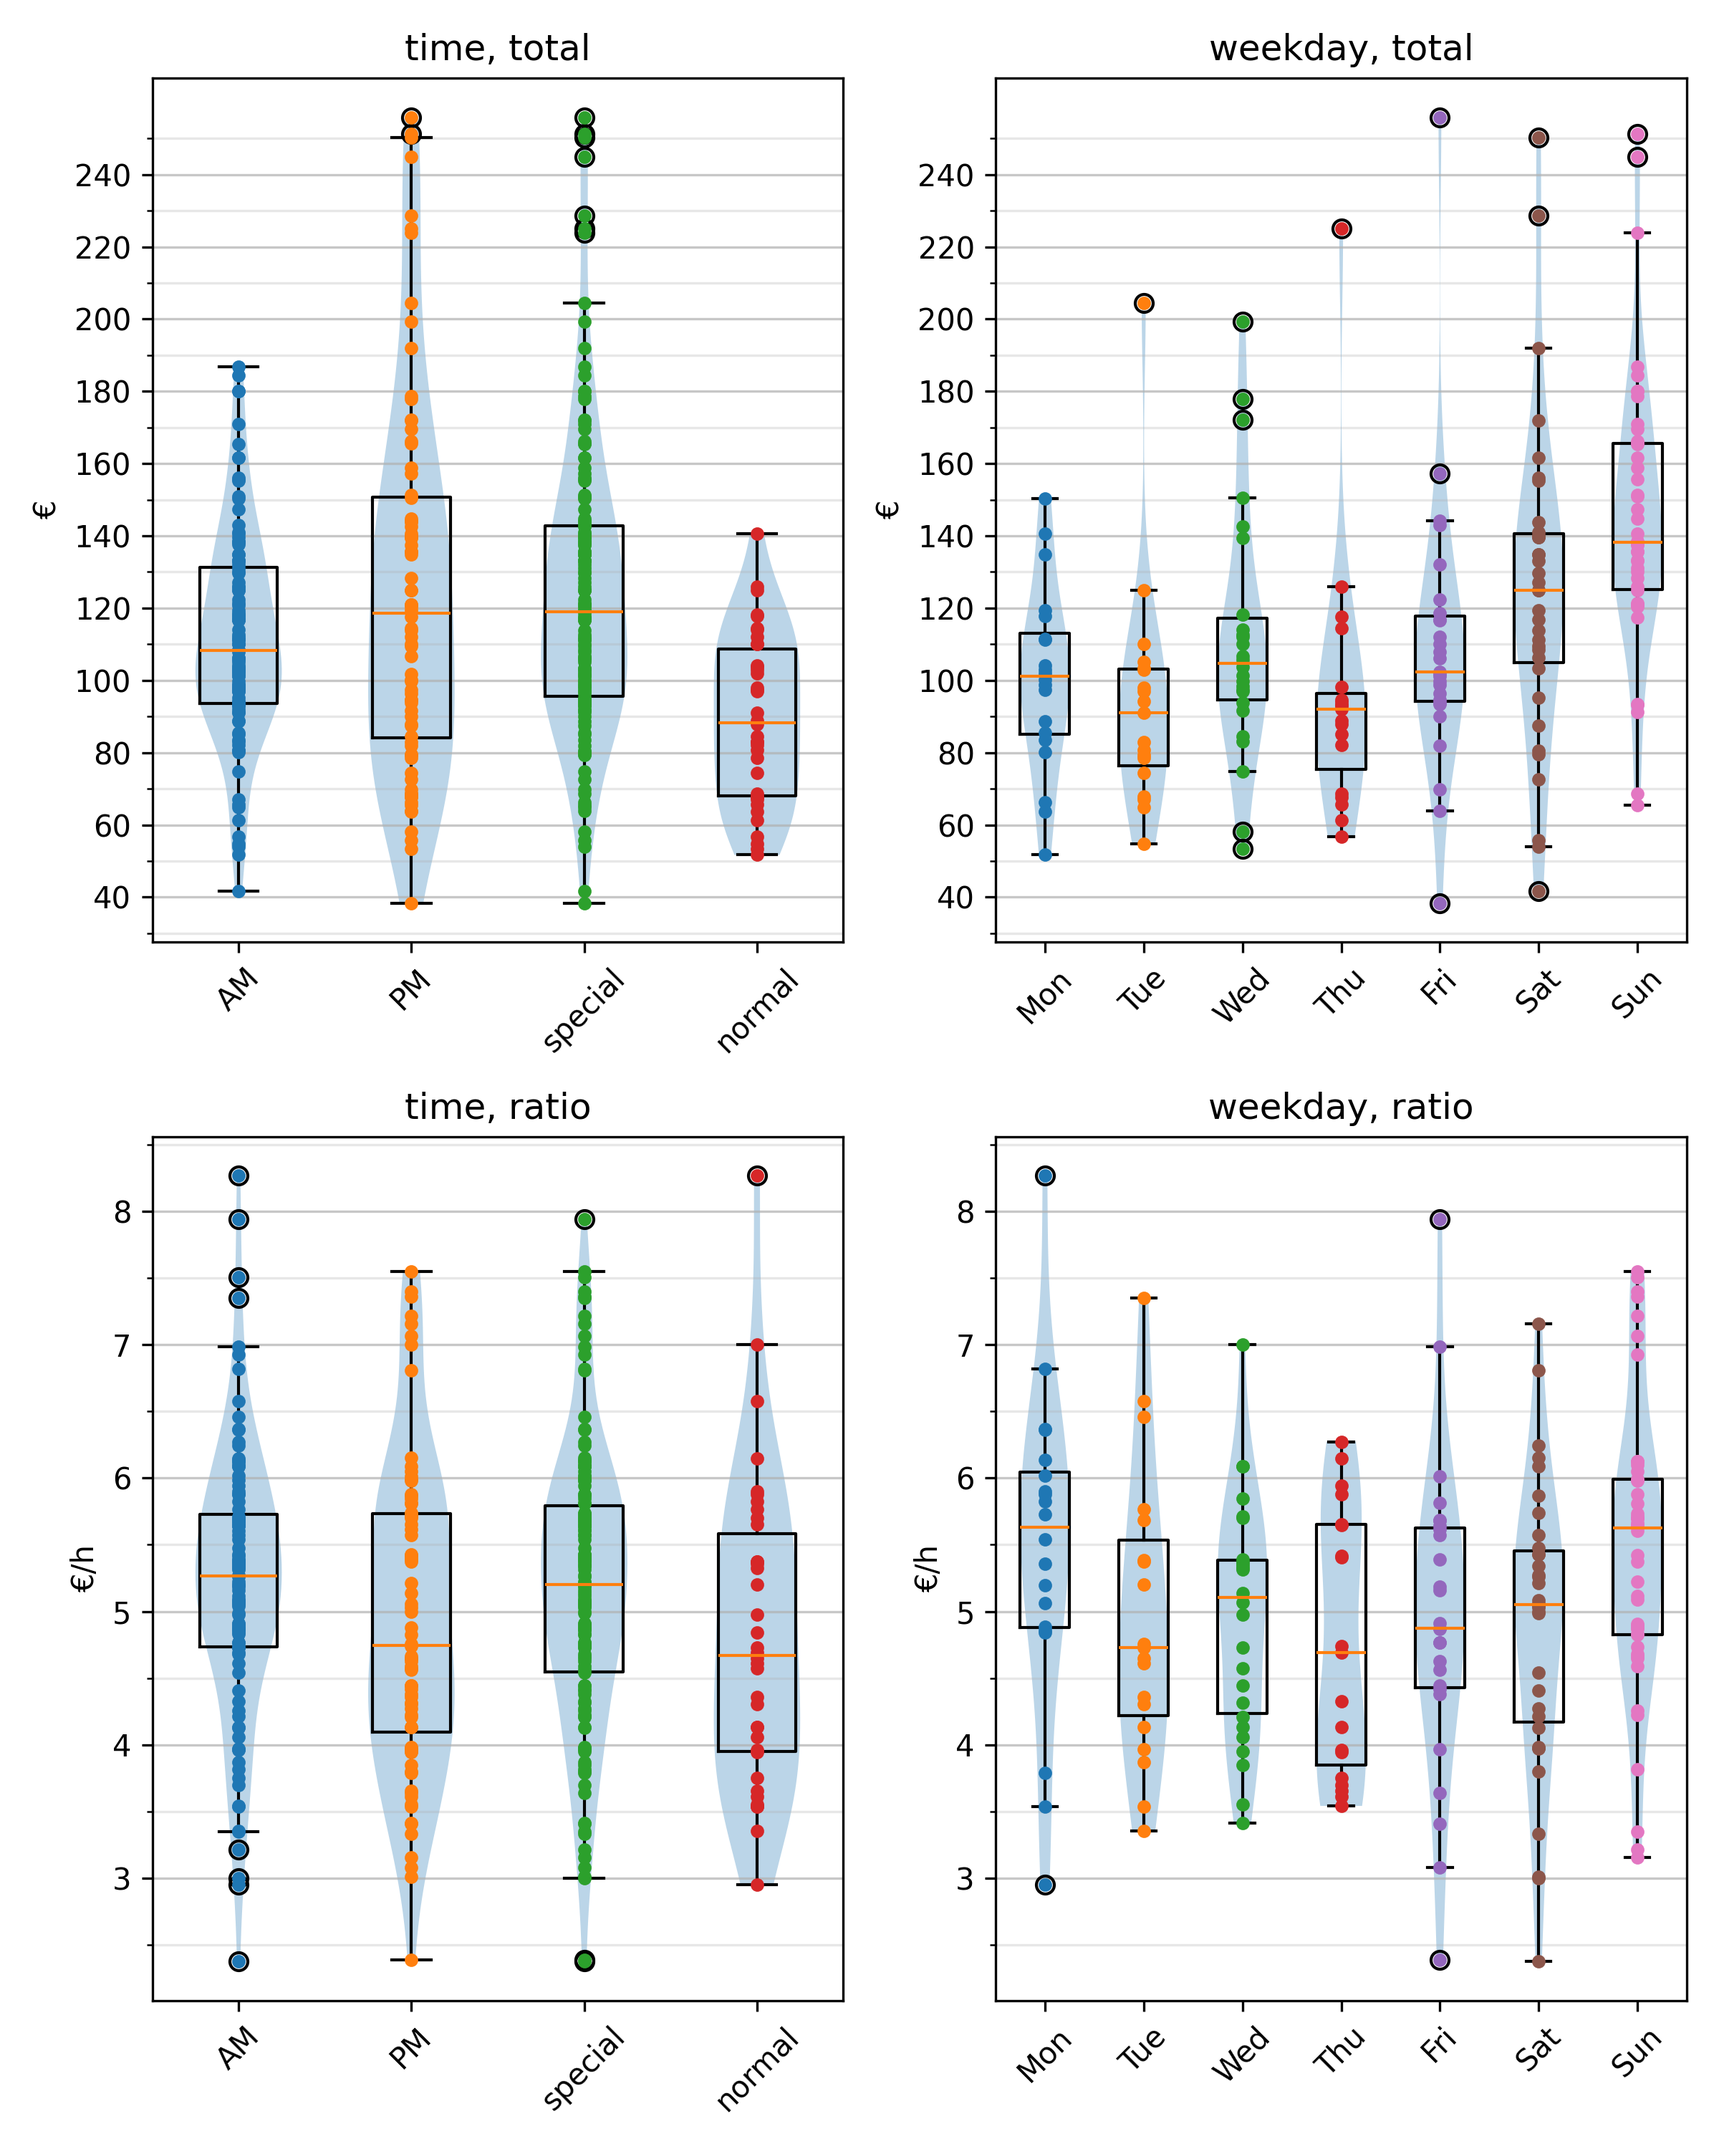
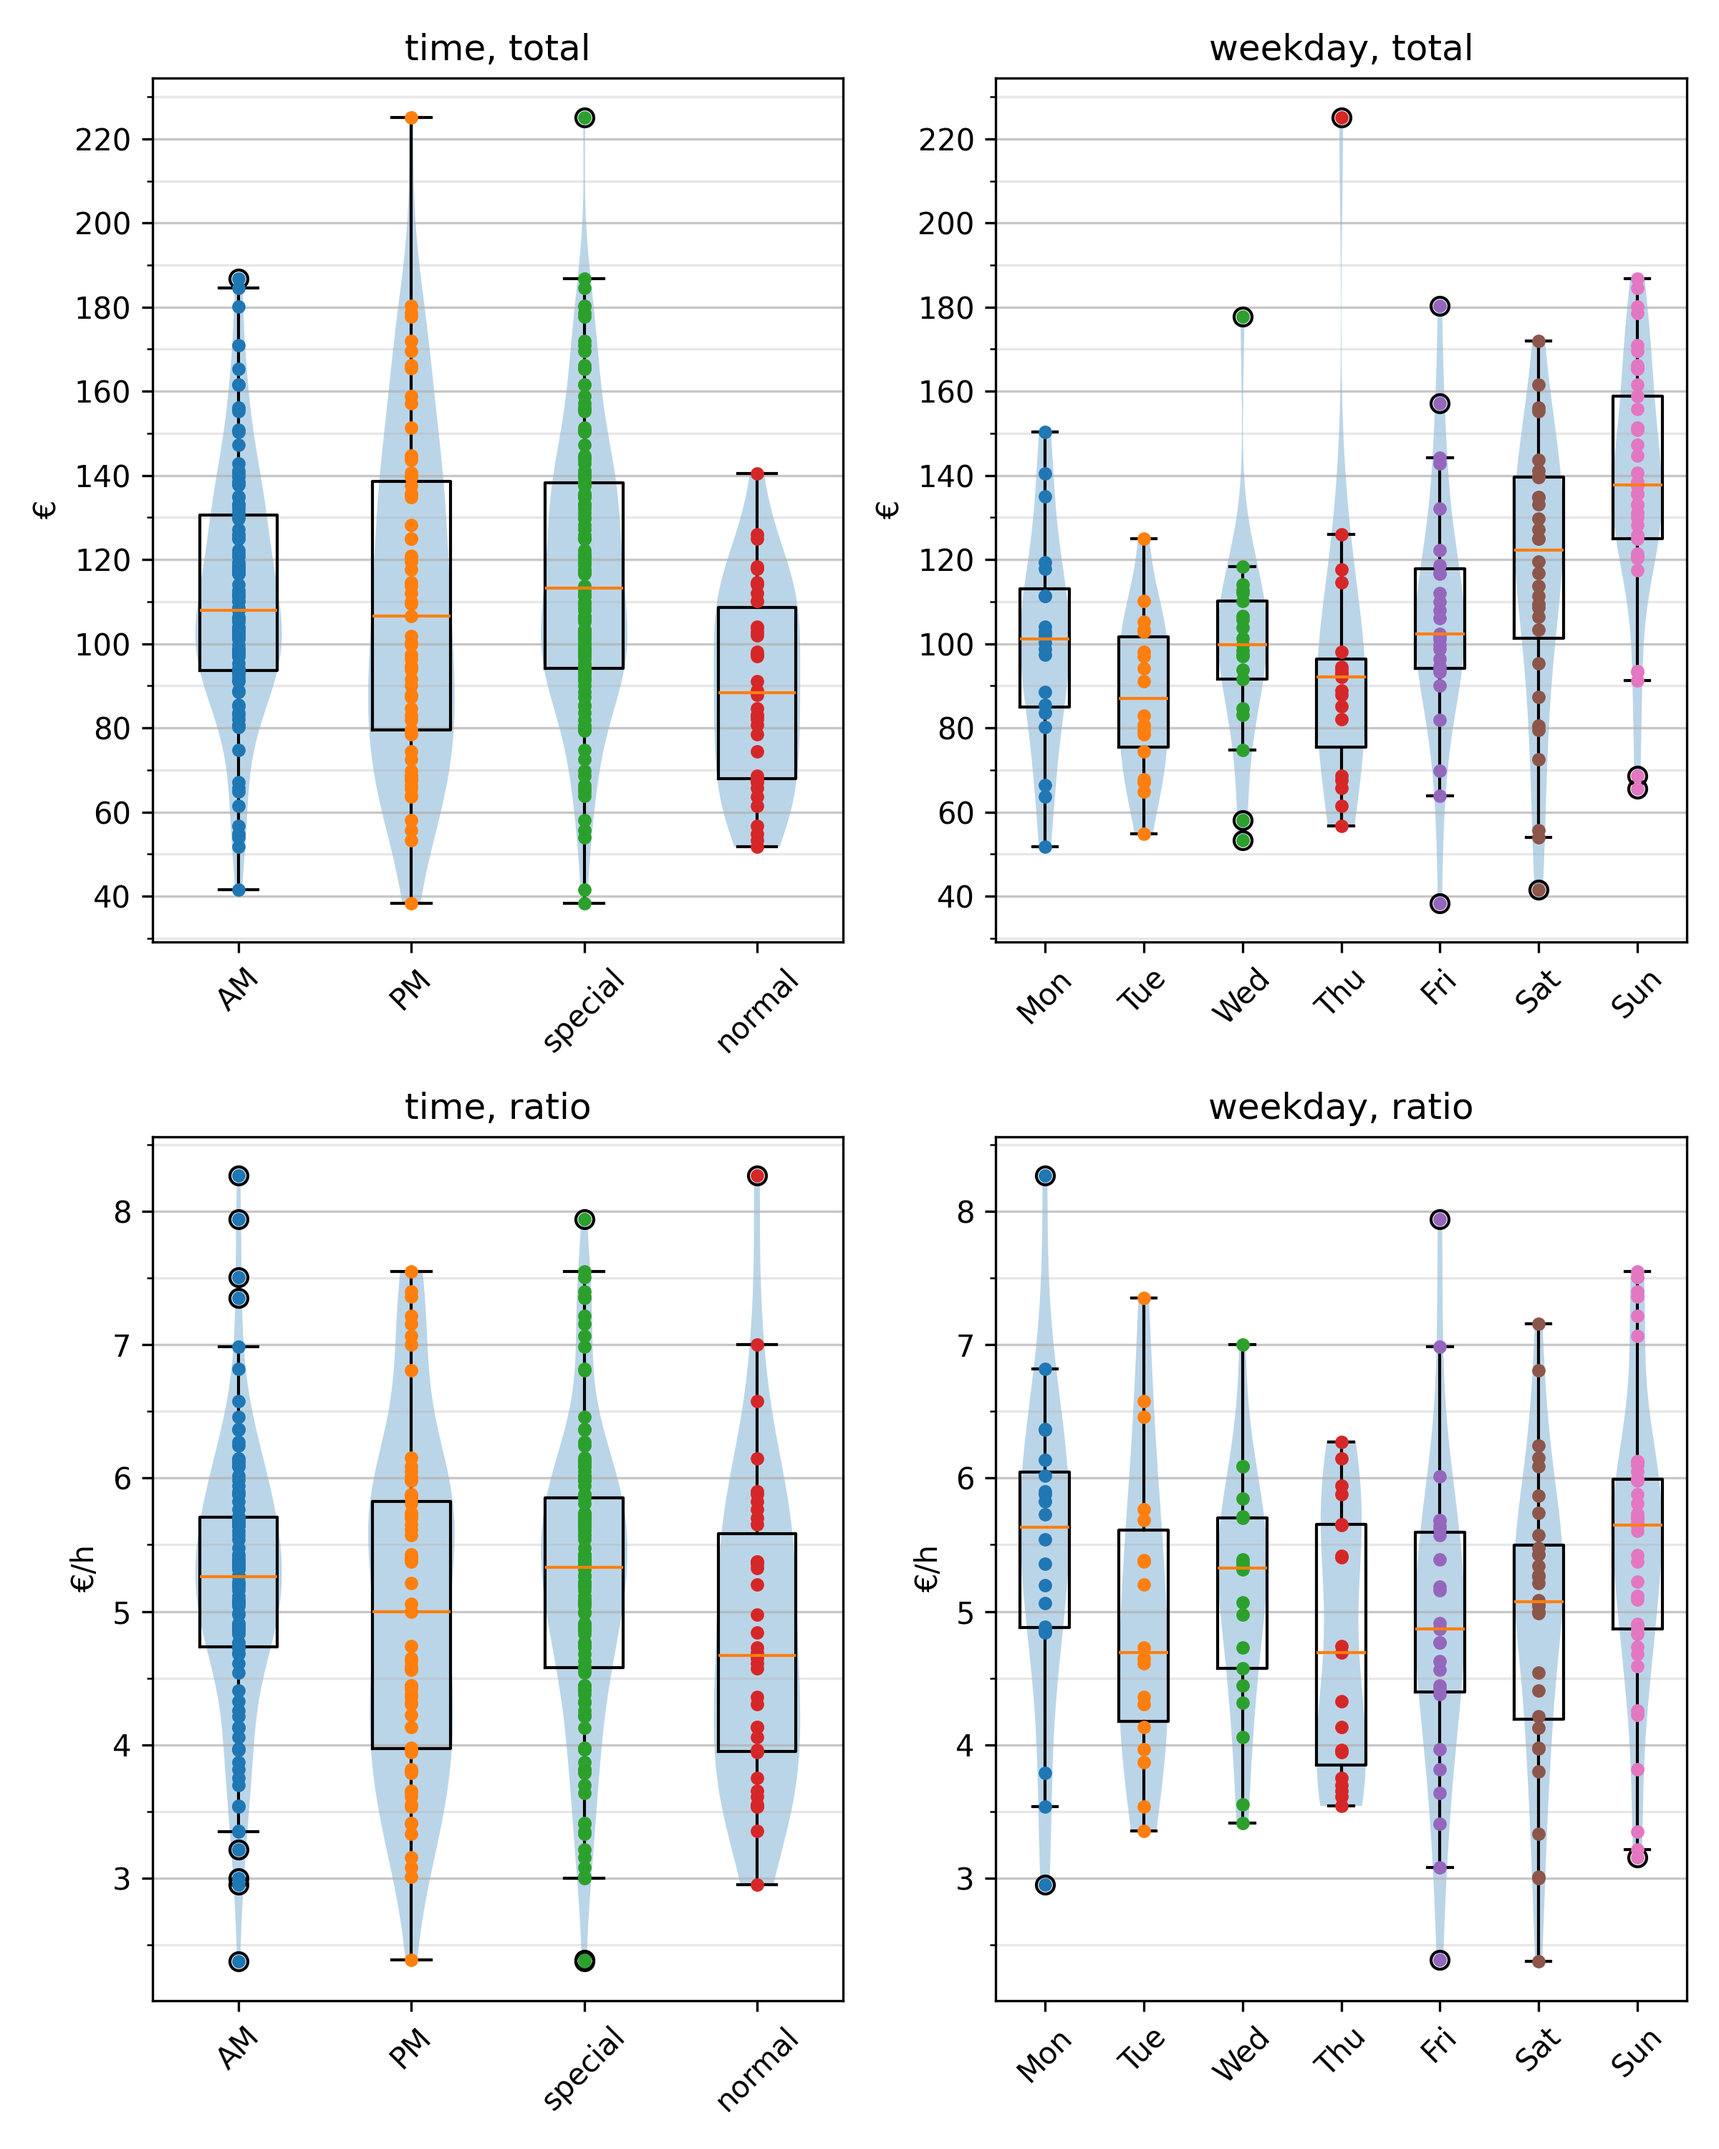
update plot

diff --git a/README.md b/README.md
@@ -1,21 +1,21 @@
-last update: 19.06.2024, Wednesday, time: 21:34
+last update: 19.06.2024, Wednesday, time: 21:55
 # Statistic  
 Holiday: Holiday in Germany NRW and Friday till Sunday  
 ## Overview  
-total: 117.377 +/- 40.691  
-ratio:   5.099 +/-  1.079  
-bar:    47.306 +/- 22.347  
-card:   61.767 +/- 32.271  
+total: 111.014 +/- 32.749  
+ratio:   5.123 +/-  1.097  
+bar:    44.751 +/- 20.278  
+card:   57.307 +/- 27.803  
   
   
 ### Top three: total  
 &nbsp;|total|ratio|timestamp
 ---|---|---|---
-1":|255.82€|5.814€/h|03.05.2024 Fri PM
+1":|225.10€|4.739€/h|09.05.2024 Thu PM
 &nbsp;|&nbsp;|&nbsp;|holiday -> False
-2":|251.18€|4.877€/h|02.06.2024 Sun PM
+2":|186.83€|6.126€/h|03.03.2024 Sun AM
 &nbsp;|&nbsp;|&nbsp;|holiday -> False
-3":|250.25€|5.030€/h|25.05.2024 Sat PM
+3":|184.50€|6.099€/h|13.08.2023 Sun AM
 &nbsp;|&nbsp;|&nbsp;|holiday -> False
   
   
@@ -31,17 +31,17 @@ card:   61.767 +/- 32.271
   
   
 ### AM  
-total: 111.987 +/- 29.349  
-ratio:   5.214 +/-  1.011  
+total: 111.373 +/- 28.757  
+ratio:   5.198 +/-  1.002  
   
 ### PM  
-total: 124.923 +/- 51.674  
-ratio:   4.939 +/-  1.149  
+total: 110.419 +/- 38.453  
+ratio:   4.997 +/-  1.228  
   
   
 ### Holidays with weekends (Fri - Sun)  
-total: 124.224 +/- 41.211  
-ratio:   5.171 +/-  1.055  
+total: 116.819 +/- 32.615  
+ratio:   5.207 +/-  1.073  
   
 ### Normal days  
 total:  89.628 +/- 22.870  
@@ -53,39 +53,39 @@ total: 100.529 +/- 24.673
 ratio:   5.466 +/-  1.157  
   
 Tuesday  
-total:  93.766 +/- 31.358  
-ratio:   4.951 +/-  1.044  
+total:  87.616 +/- 17.869  
+ratio:   4.962 +/-  1.072  
   
 Wednesday  
-total: 111.469 +/- 33.901  
-ratio:   4.959 +/-  0.858  
+total:  99.723 +/- 24.208  
+ratio:   5.127 +/-  0.846  
   
 Thursday  
 total:  95.369 +/- 35.584  
 ratio:   4.759 +/-  0.955  
   
 Friday  
-total: 109.960 +/- 37.526  
-ratio:   4.955 +/-  1.122  
+total: 107.163 +/- 28.208  
+ratio:   4.881 +/-  1.128  
   
 Saturday  
-total: 125.280 +/- 43.268  
-ratio:   4.894 +/-  1.053  
+total: 116.059 +/- 31.648  
+ratio:   4.938 +/-  1.082  
   
 Sunday  
-total: 145.224 +/- 37.252  
-ratio:   5.462 +/-  1.073  
+total: 138.032 +/- 28.178  
+ratio:   5.495 +/-  1.090  
   
   
 ### Frequency  
-total: 192, AM: 112, PM: 80  
-██████████▍ 20, 10.4%  
-█████████▉ 19, 9.9%  
-█████████████▌ 26, 13.5%  
-█████████▉ 19, 9.9%  
-██████████████ 27, 14.1%  
-██████████████████▏ 35, 18.2%  
-███████████████████████▉ 46, 24.0%  
+total: 178, AM: 111, PM: 67  
+███████████▏ 20, 11.2%  
+██████████ 18, 10.1%  
+███████████▊ 21, 11.8%  
+██████████▋ 19, 10.7%  
+███████████████▏ 27, 15.2%  
+█████████████████▉ 32, 18.0%  
+███████████████████████ 41, 23.0%  
   
   
 ## Plot  
